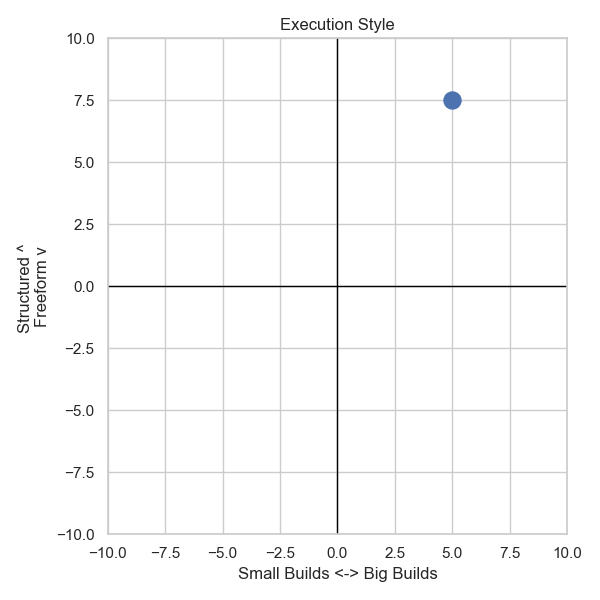
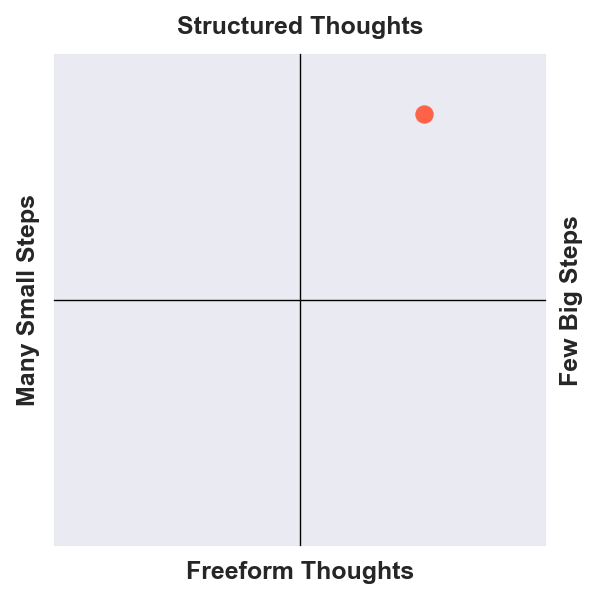
graph UI overhaul

diff --git a/Survey app/templates/index.html b/Survey app/templates/index.html
@@ -145,16 +145,16 @@
 
 {% if graph_exists %}
 
-<h2>Your Graph</h2>
+<h1>Your Personalized Graphs:</h1>
 
 <img src="{{ url_for('static', filename='graph.png') }}">
 
 {% if graph_exists %}
 
-<h2>Execution Style</h2>
+<h2>Execution Style:</h2>
 <img src="{{ url_for('static', filename='graph1.png') }}">
 
-<h2>Thinking Style</h2>
+<h2>Thinking Style:</h2>
 <img src="{{ url_for('static', filename='graph2.png') }}">
 
 {% endif %}

diff --git a/Survey app/app.py b/Survey app/app.py
@@ -77,29 +77,46 @@ def index():
         Q3x = ((q3xa - q3xb)*2.5)
         Q3y = ((q3ya - q3yb)*2.5)
 
-        sns.set_theme(style="whitegrid")
+        sns.set_theme(style="dark")
 
         ############# barchart
 
+        colors = ["magenta", "yellow", "coral", "yellowgreen", "turquoise"]
         plt.figure(figsize=(8,5))
-        ax = sns.barplot(data=df, x="Category", y="Value")
-        ax.set_ylim(0,5); ax.set_ylabel("Score"); ax.set_title("Personalized Scores")
+        plt.xlabel(""); plt.ylabel("")
+        ax = sns.barplot(data=df, x="Category", y="Value", palette=colors)
+        ax.set_ylim(0,5)#; ax.set_ylabel("Score")
+        ax.set_yticks([]); ax.set_xlabel(""); ax.set_ylabel("")
+        
+        bold_labels = {"Fine Arts", "Humanities", "Physical Sciences", "Life Sciences", "Mathematics"}
+        for label in ax.get_xticklabels():
+            if label.get_text() in bold_labels: label.set_fontweight("bold")
+
+        
         plt.tight_layout(); plt.savefig("static/graph.png"); plt.close()
         
         
         ############# graph 2
 
         plt.figure(figsize=(6, 6))
+        ax = plt.gca()
 
-        plt.scatter(Q2x, Q2y, s=150)
+        plt.scatter(Q2x, Q2y, s=150, color="tomato")
 
         plt.xlim(-10, 10); plt.ylim(-10, 10)
         plt.axhline(0, color="black", linewidth=1)
         plt.axvline(0, color="black", linewidth=1)
-        plt.xlabel("Small Builds <-> Big Builds")
-        plt.ylabel("Structured ^ \nFreeform v")
-        plt.title("Execution Style")
-        plt.grid(True)
+        
+        ax.set_xticks([]); ax.set_yticks([])
+        
+        ax.text(0, 11, "Structured Thoughts", ha="center", va="center", fontsize=18, fontweight="bold")
+        ax.text(0, -11, "Freeform Thoughts", ha="center", va="center", fontsize=18, fontweight="bold")
+        ax.text(11, 0, "Few Big Steps", ha="center", va="center", fontsize=18, fontweight="bold", rotation=90)
+        ax.text(-11, 0, "Many Small Steps", ha="center", va="center", fontsize=18, fontweight="bold", rotation=90)
+        # plt.xlabel("Small Builds <-> Big Builds")
+        # plt.ylabel("Structured ^ \nFreeform v")
+        # plt.title("Execution Style")
+        # plt.grid(True)
         plt.tight_layout()
         plt.savefig("static/graph1.png")
         plt.close()
@@ -107,17 +124,25 @@ def index():
         ############# graph 3
 
 
-        plt.figure(figsize=(6, 6))
+        plt.figure(figsize=(6, 6)); ax = plt.gca()
 
-        plt.scatter(Q3x, Q3y, s=150, color="orange")
+
+        plt.scatter(Q3x, Q3y, s=150, color="lime")
 
         plt.xlim(-10, 10); plt.ylim(-10, 10)
         plt.axhline(0, color="black", linewidth=1)
         plt.axvline(0, color="black", linewidth=1)
-        plt.xlabel("Systems <-> Details")
-        plt.ylabel("Human Feedback ^\nPressure Testing v")
-        plt.title("Thinking Style")
-        plt.grid(True)
+        
+        ax.set_xticks([]); ax.set_yticks([])
+        
+        ax.text(0, 11, "Human Feedback", ha="center", va="center", fontsize=18, fontweight="bold")
+        ax.text(0, -11, "Mechanical Testing", ha="center", va="center", fontsize=18, fontweight="bold")
+        ax.text(11, 0, "Systems Thinking", ha="center", va="center", fontsize=18, fontweight="bold", rotation=90)
+        ax.text(-11, 0, "Detailed Thinking", ha="center", va="center", fontsize=18, fontweight="bold", rotation=90)
+        # plt.xlabel("Human Feedback^\nSystems <---> Details\nMechanical Testing v")
+        # plt.ylabel("")#Human Feedback ^\nPressure Testing v")
+        # plt.title("Thinking Style")
+        # plt.grid(True)
         plt.tight_layout()
         plt.savefig("static/graph2.png")
         plt.close()
